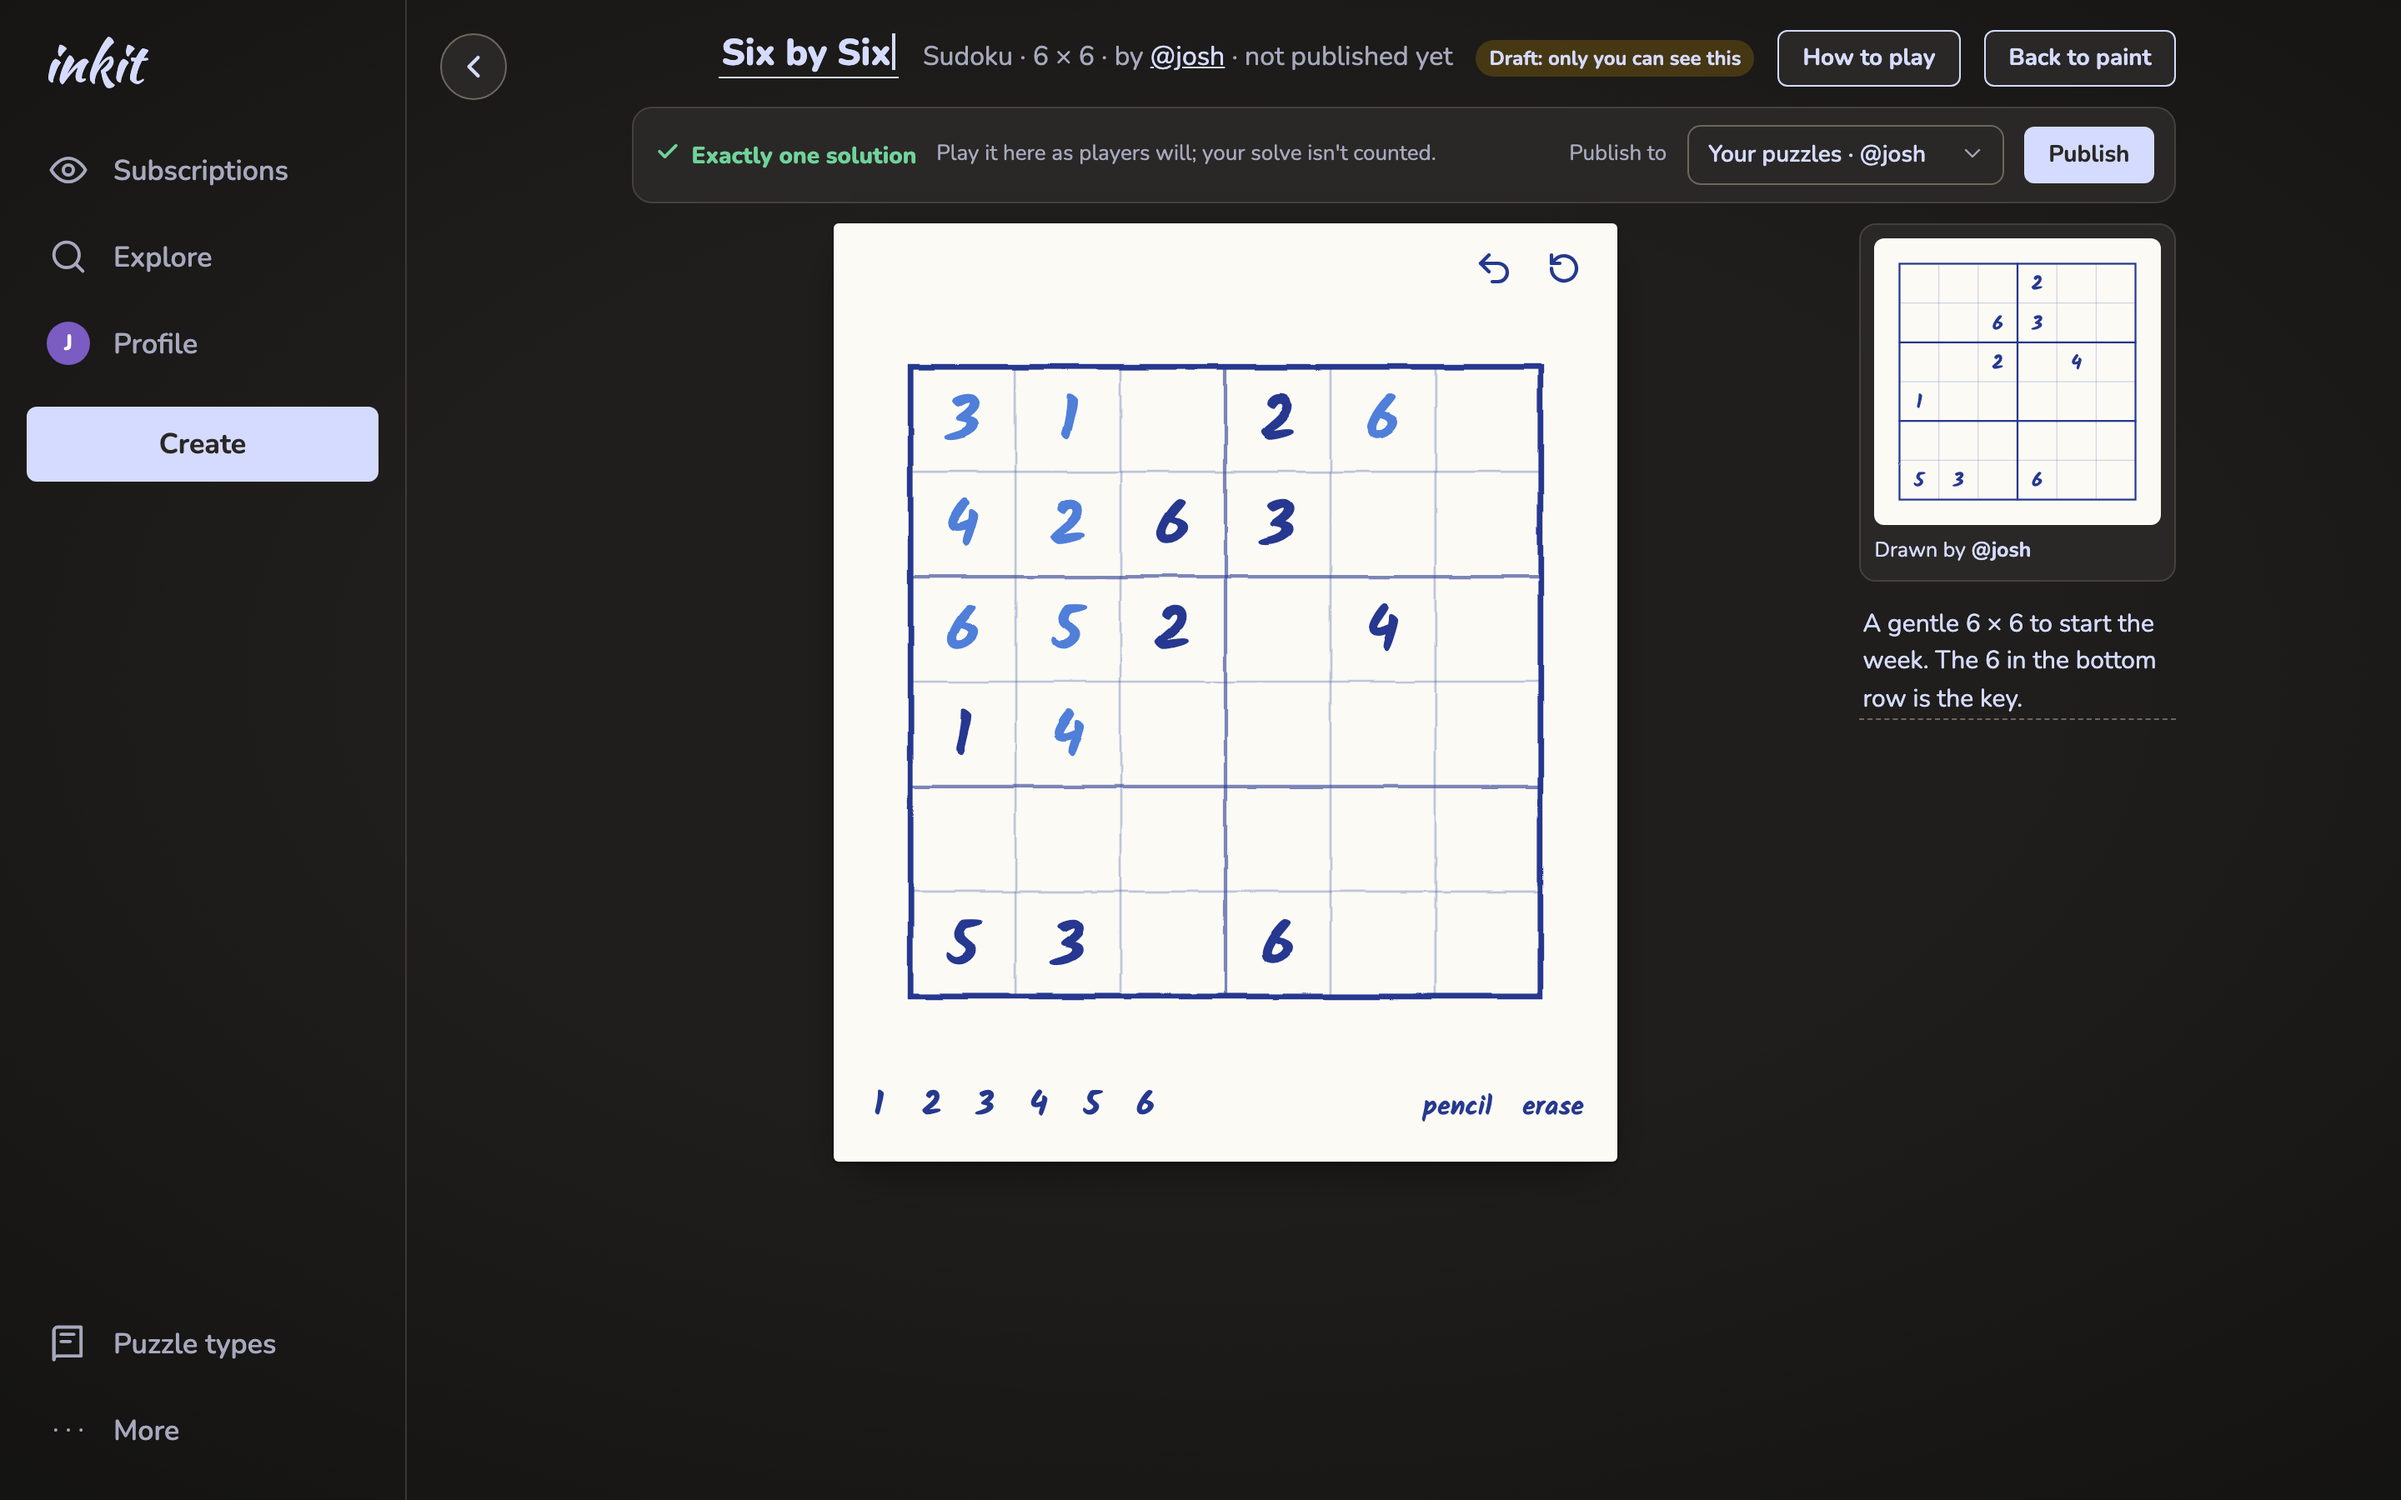
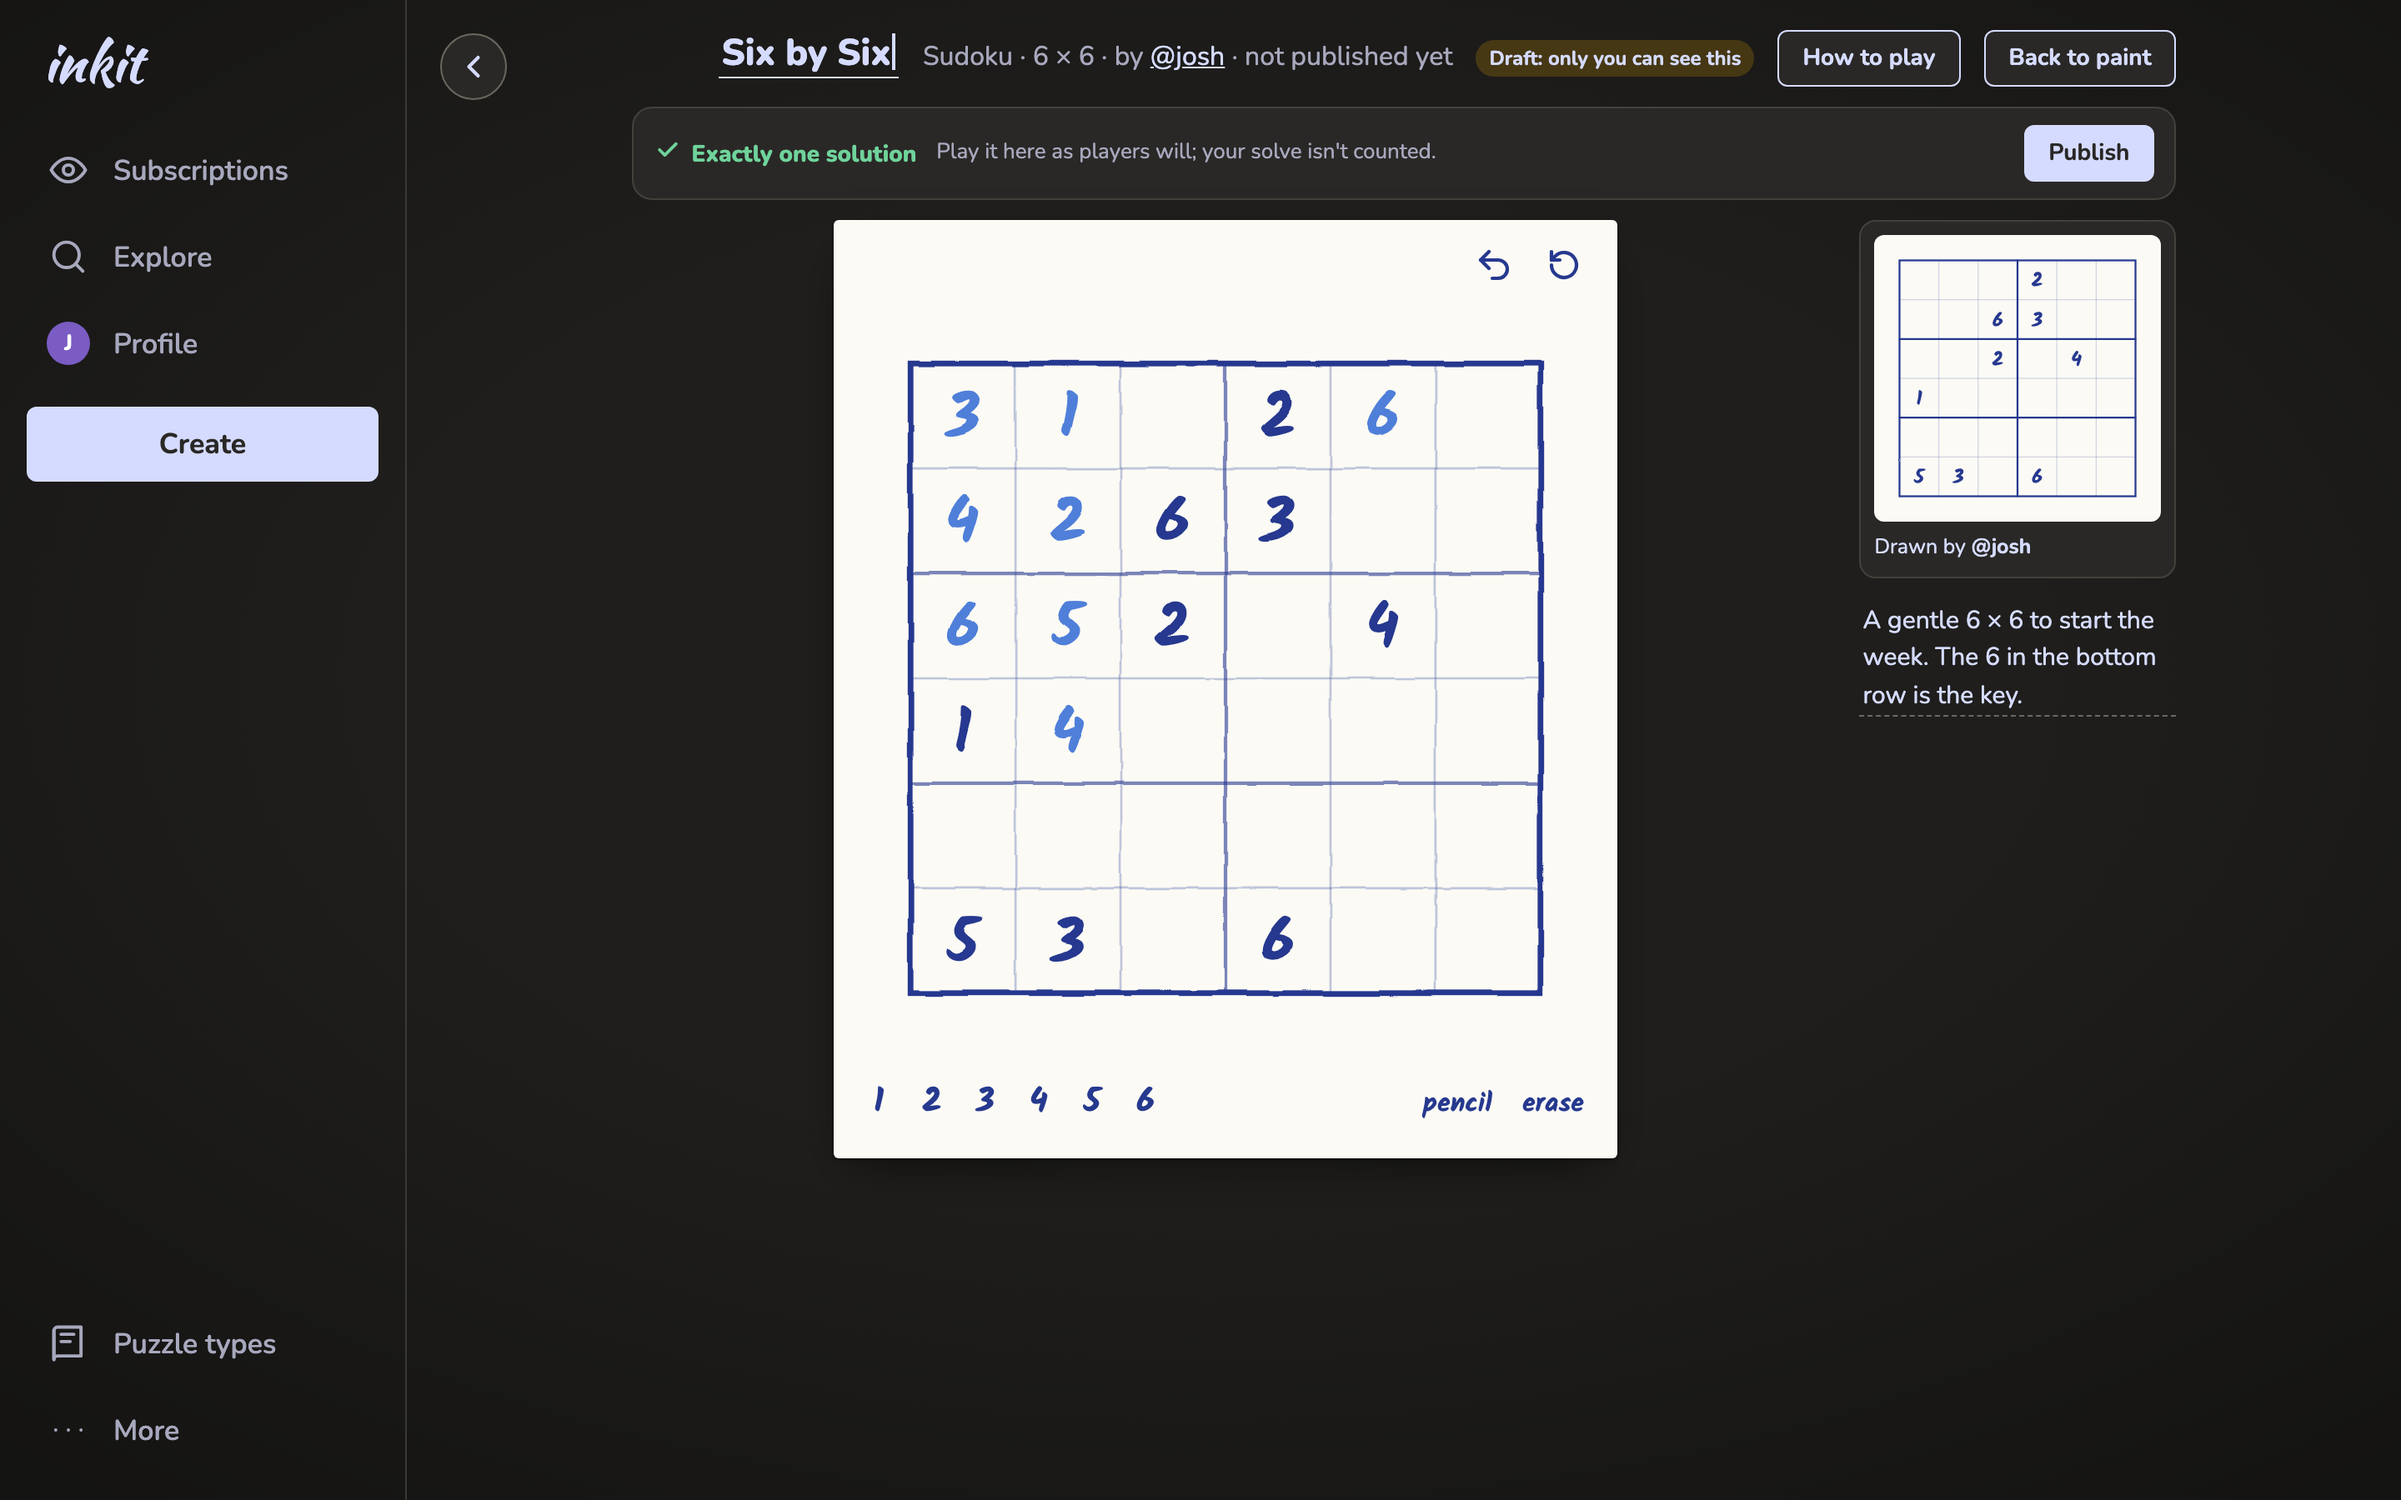
docs: creation flow publishes without a collection picker

diff --git a/docs/creation-flow-mockups/07-publish.html b/docs/creation-flow-mockups/07-publish.html
@@ -54,8 +54,6 @@
         <div class="mk-pubbar">
           <span class="ok"><span data-icon="check"></span>Exactly one solution</span>
           <span class="muted grow">Play it here as players will; your solve isn't counted.</span>
-          <span class="muted">Publish to</span>
-          <span class="mk-select" style="min-width:190px">Your puzzles · @josh<span data-icon="chevron"></span></span>
           <button class="btn primary">Publish</button>
         </div>
 

diff --git a/docs/creation-flow.md b/docs/creation-flow.md
@@ -190,8 +190,9 @@ shell, the back button (to paint), `GamePageView`'s head and the real player (`G
 - The head's meta line says "not published yet" and a **Draft** tag; **How to play** and **Back to
   paint** sit where the published page has How to play and Edit.
 - A **publish bar** under the head: the verdict ("Exactly one solution", from the last Check, re-run
-  if the drawing changed), "Play it here as players will; your solve isn't counted", **Publish to**
-  (personal or a studio) and **Publish**.
+  if the drawing changed), "Play it here as players will; your solve isn't counted", and **Publish**.
+  There is no collection picker: the puzzle goes to the creator's profile, or to the studio a
+  `?in=` link carried.
 - The player is the real one, with a host that saves to `sessionStorage` and never records a solve.
 - The **Drawn by** thumbnail (decision 2) is shown as it will be published.
 
